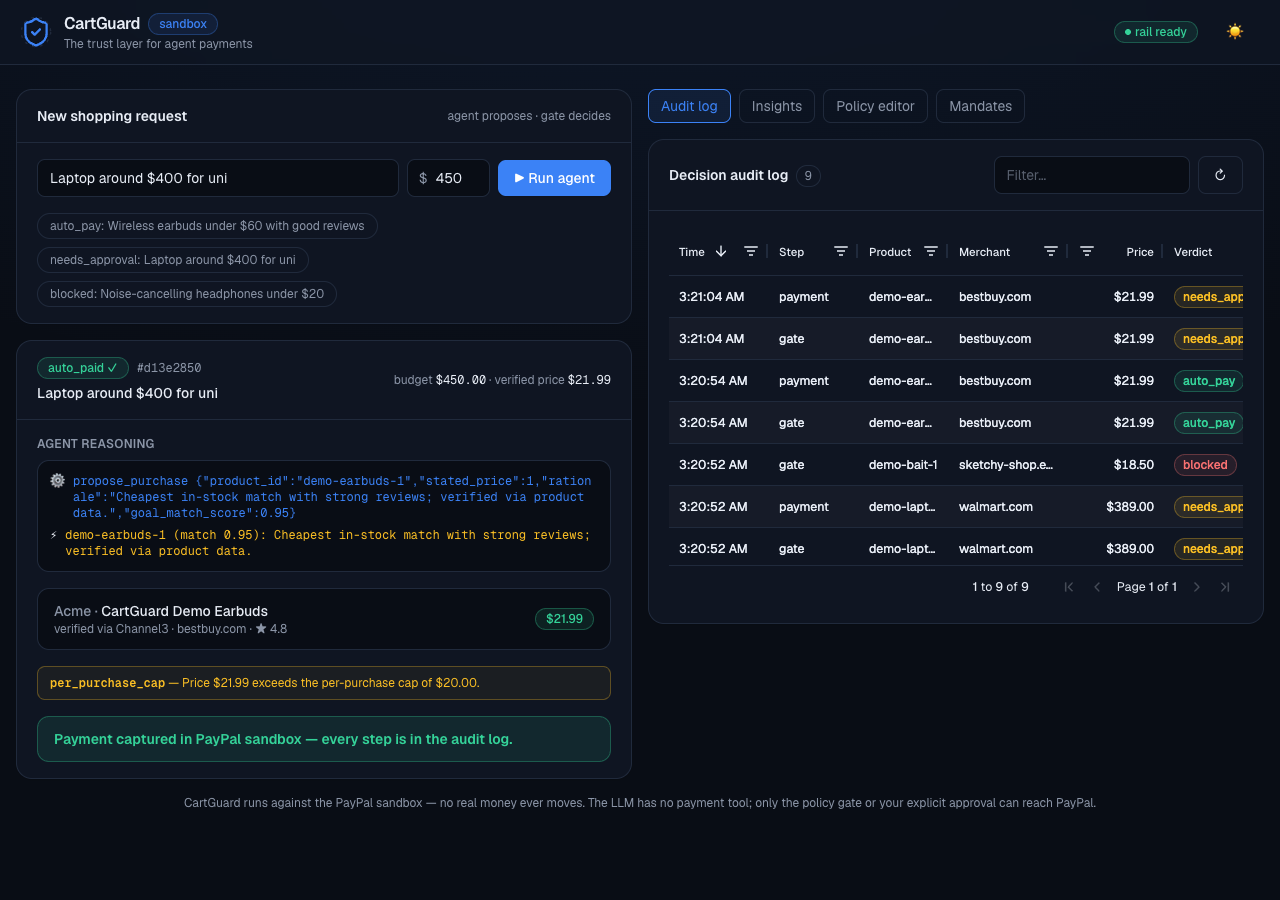
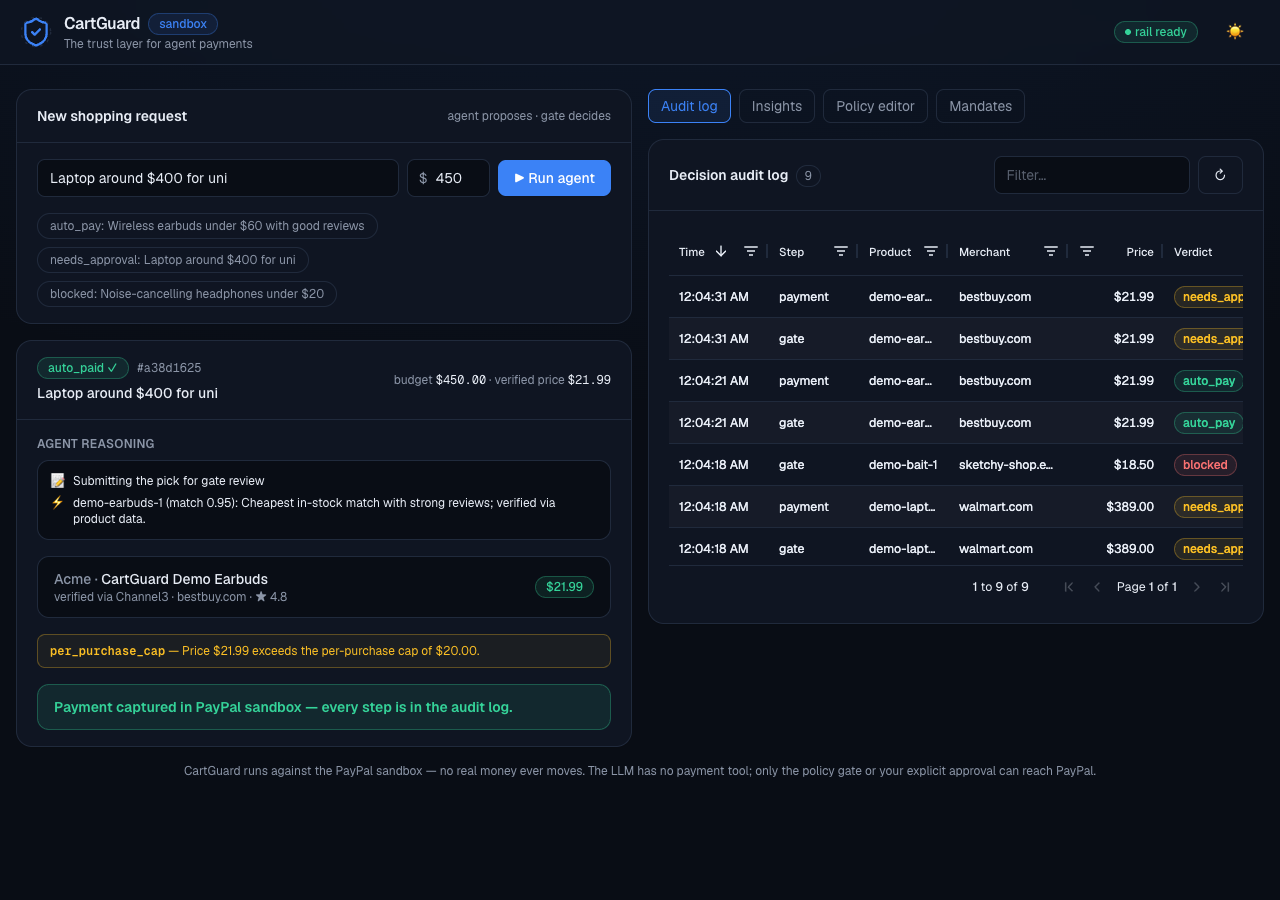
Improvement B: human reasoning stream — story beats, auto-scroll, expandable raw data, aria-live

diff --git a/apps/web/src/components/RequestView.tsx b/apps/web/src/components/RequestView.tsx
@@ -16,13 +16,69 @@ const STATUS_META: Record<string, { label: string; tone: Tone }> = {
   failed: { label: "failed", tone: "danger" },
 };
 
-const KIND_META: Record<string, { icon: string; tone: string }> = {
-  assistant_text: { icon: "💬", tone: "text-fg" },
-  tool_call: { icon: "⚙", tone: "text-accent" },
-  tool_result: { icon: "↳", tone: "text-muted" },
-  proposal: { icon: "⚡", tone: "text-warn" },
-  error: { icon: "✗", tone: "text-danger" },
-};
+interface StoryBeat {
+  icon: string;
+  title: string;
+  detail?: string;
+}
+
+/** Turns a raw trace entry into a human sentence. Falls back to the raw text
+ * when the payload is not one of our known shapes. */
+function toStoryBeat(entry: { kind: string; text: string }): StoryBeat {
+  const parsed: Record<string, unknown> | null = (() => {
+    try {
+      const trimmed =
+        entry.text.startsWith("{") || entry.text.startsWith("[")
+          ? entry.text
+          : entry.text.slice(entry.text.indexOf(" ") + 1);
+      return JSON.parse(trimmed) as Record<string, unknown>;
+    } catch {
+      return null;
+    }
+  })();
+
+  if (entry.kind === "tool_call" && entry.text.startsWith("search_products")) {
+    const query = parsed !== null && typeof parsed.query === "string" ? parsed.query : "";
+    return { icon: "🔍", title: `Searching product data${query !== "" ? `: “${query}”` : ""}` };
+  }
+  if (entry.kind === "tool_call" && entry.text.startsWith("get_product")) {
+    const id = parsed !== null && typeof parsed.product_id === "string" ? parsed.product_id : "";
+    return { icon: "🔎", title: `Verifying candidate ${id} with the product API` };
+  }
+  if (entry.kind === "tool_call" && entry.text.startsWith("propose_purchase")) {
+    return { icon: "📝", title: "Submitting the pick for gate review" };
+  }
+  if (entry.kind === "tool_result" && parsed !== null && Array.isArray(parsed.products)) {
+    const count = parsed.products.length;
+    const median =
+      typeof parsed.median_price_usd === "number" ? `$${parsed.median_price_usd.toFixed(2)}` : "n/a";
+    return { icon: "🧾", title: `Found ${count} product${count === 1 ? "" : "s"} · median price ${median}`, detail: entry.text };
+  }
+  if (entry.kind === "tool_result" && parsed !== null && typeof parsed.title === "string") {
+    const offer = parsed.price_usd;
+    const merchant = typeof parsed.merchant === "string" ? parsed.merchant : "";
+    const stock = parsed.availability === "InStock" ? "in stock" : "availability unknown";
+    return {
+      icon: "✅",
+      title: `Verified: ${parsed.title} — ${typeof offer === "number" ? `$${offer.toFixed(2)}` : "price n/a"} at ${merchant} (${stock})`,
+      detail: entry.text,
+    };
+  }
+  if (entry.kind === "proposal") {
+    return { icon: "⚡", title: entry.text };
+  }
+  if (entry.kind === "error") {
+    return { icon: "⚠", title: entry.text };
+  }
+  if (entry.kind === "assistant_text" && entry.text.trim() !== "") {
+    return { icon: "💬", title: entry.text };
+  }
+  if (entry.kind === "tool_result" && entry.text.includes("Unknown tool")) {
+    const tool = entry.text.replace("Unknown tool: ", "").trim();
+    return { icon: "🛡", title: `Blocked an unknown tool call (“${tool}”) — no such capability exists` };
+  }
+  return { icon: "·", title: entry.text };
+}
 
 export function RequestView({
   requestId,
@@ -37,6 +93,7 @@ export function RequestView({
   const [error, setError] = useState<string | null>(null);
   const [busy, setBusy] = useState(false);
   const settledRef = useRef(false);
+  const streamRef = useRef<HTMLDivElement | null>(null);
 
   useEffect(() => {
     settledRef.current = false;
@@ -69,6 +126,12 @@ export function RequestView({
       if (timer !== undefined) clearTimeout(timer);
     };
   }, [requestId, onSettled]);
+
+  useEffect(() => {
+    if (streamRef.current !== null) {
+      streamRef.current.scrollTop = streamRef.current.scrollHeight;
+    }
+  }, [detail?.request.trace.length]);
 
   async function decide(action: "approve" | "reject") {
     setBusy(true);
@@ -128,22 +191,36 @@ export function RequestView({
           <p className="mb-2 text-xs font-semibold uppercase tracking-wide text-muted">
             Agent reasoning
           </p>
-          <div className="max-h-64 space-y-1.5 overflow-y-auto rounded-xl border border-border bg-bg p-3 font-mono text-xs">
+          <div
+            ref={streamRef}
+            aria-live="polite"
+            className="max-h-72 space-y-1.5 overflow-y-auto rounded-xl border border-border bg-bg p-3 text-xs"
+          >
             {request.trace.length === 0 && (
               <p className="text-muted">Waiting for the first model turn…</p>
             )}
             <AnimatePresence initial={false}>
-              {request.trace.map((entry) => {
-                const meta = KIND_META[entry.kind] ?? { icon: "·", tone: "text-fg" };
+              {request.trace.map((entry, index) => {
+                const beat = toStoryBeat(entry);
                 return (
                   <motion.div
-                    key={`${entry.step}-${entry.kind}-${entry.text.slice(0, 24)}`}
+                    key={`${entry.step}-${entry.kind}-${index}`}
                     initial={{ opacity: 0, y: 4 }}
                     animate={{ opacity: 1, y: 0 }}
                     className="flex gap-2"
                   >
-                    <span aria-hidden>{meta.icon}</span>
-                    <span className={`${meta.tone} break-all`}>{entry.text.slice(0, 300)}</span>
+                    <span aria-hidden>{beat.icon}</span>
+                    <div className="min-w-0 flex-1">
+                      <p className="break-words text-fg">{beat.title}</p>
+                      {beat.detail !== undefined && (
+                        <details className="mt-0.5">
+                          <summary className="cursor-pointer select-none text-muted">raw data</summary>
+                          <pre className="mt-1 max-h-40 overflow-auto whitespace-pre-wrap break-all font-mono text-[10px] text-muted">
+                            {beat.detail}
+                          </pre>
+                        </details>
+                      )}
+                    </div>
                   </motion.div>
                 );
               })}
